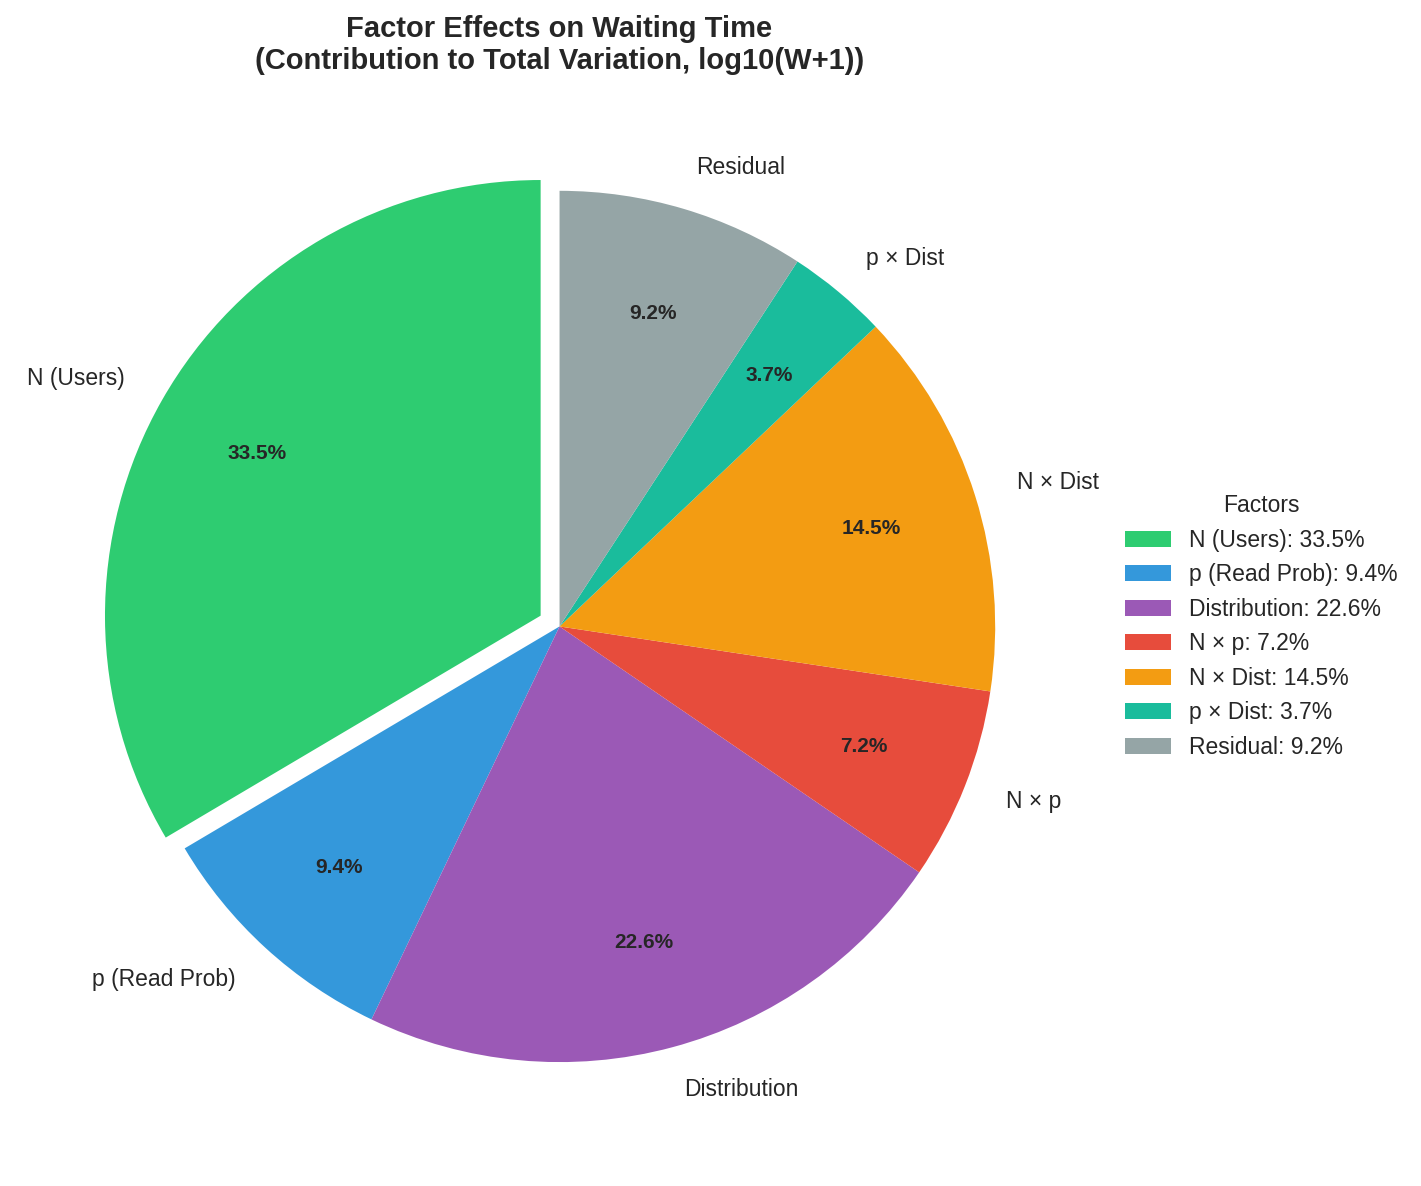
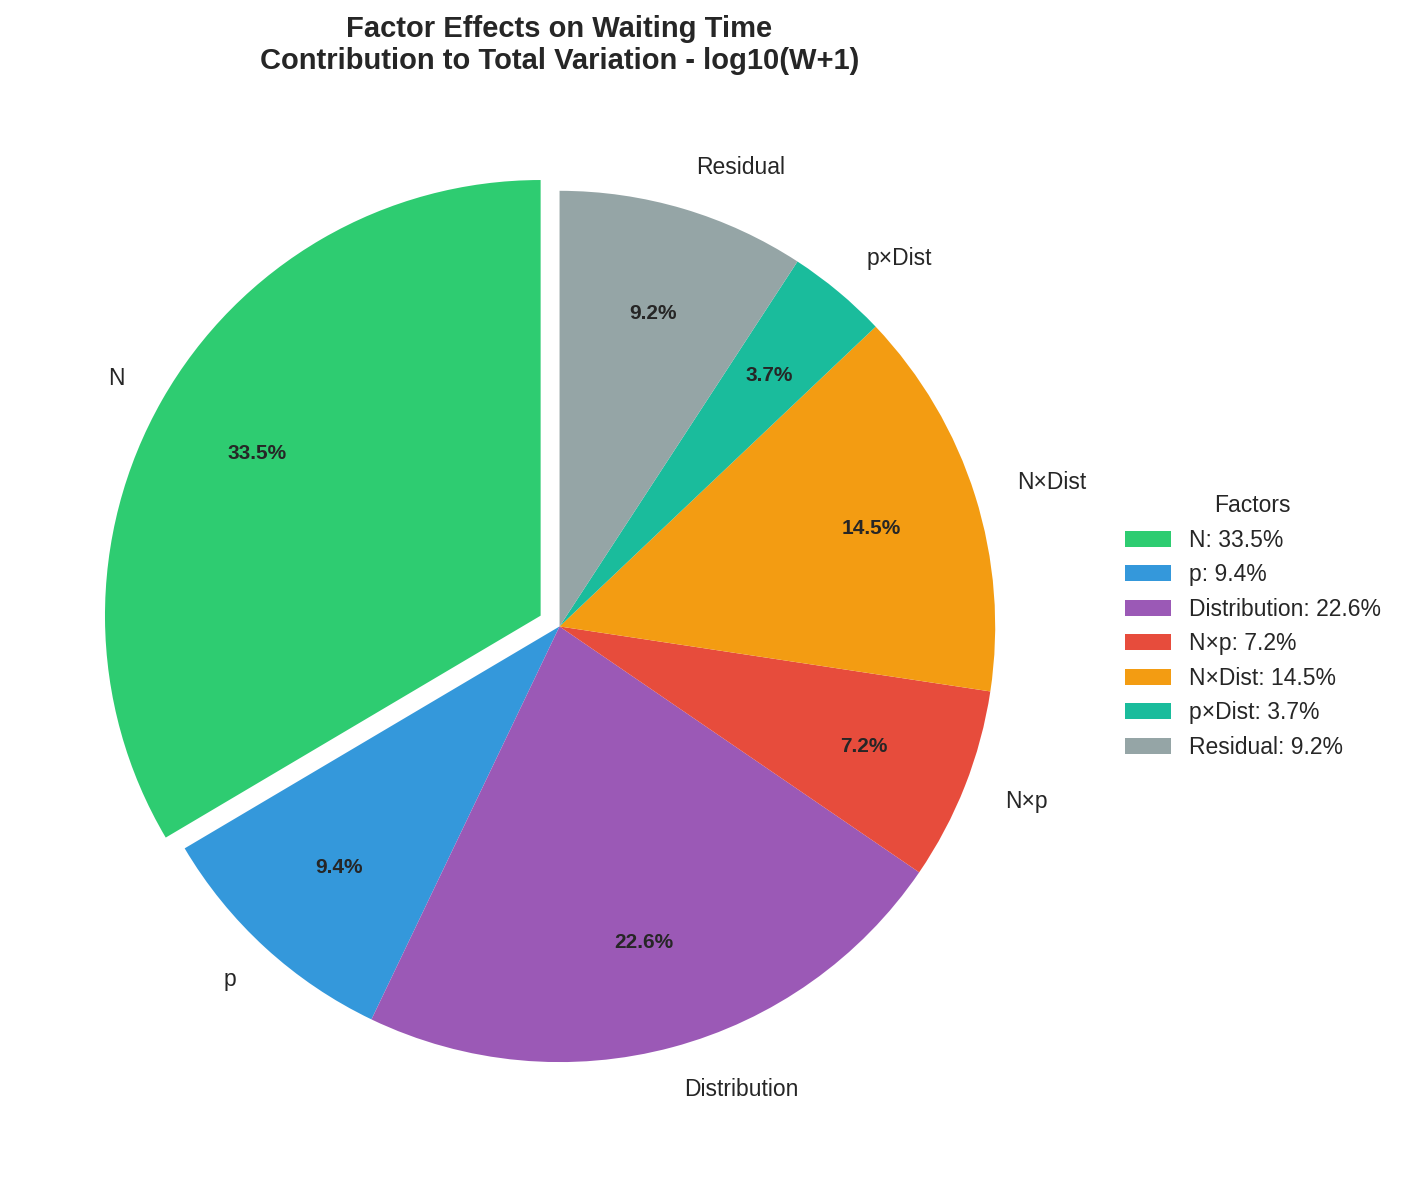
c

diff --git a/documentation/Chapter4.tex b/documentation/Chapter4.tex
@@ -68,9 +68,9 @@ This is coherent with the capacity results: hotspot traffic has a strong impact 
 $N$ & 33.51 \\
 $p$ & 9.39 \\
 Distribution & 22.56 \\
-$N \times p$ & 7.16 \\
-$N \times$ Distribution & 14.46 \\
-$p \times$ Distribution & 3.73 \\
+$N\times p$ & 7.16 \\
+$N\times \mathrm{Dist}$ & 14.46 \\
+$p\times \mathrm{Dist}$ & 3.73 \\
 Residual & 9.19 \\
 \hline
 \end{tabular}
@@ -80,7 +80,7 @@ Residual & 9.19 \\
 
 \noindent Important interpretation: the \textbf{main effect} of read probability is $9.39\%$, but the overall impact of read probability is larger if interactions are included:
 \[
-p + (N \times p) + (p \times \text{Distribution}) \approx 9.39 + 7.16 + 3.73 = 20.28\%.
+p + (N\times p) + (p\times \mathrm{Dist}) \approx 9.39 + 7.16 + 3.73 = 20.28\%.
 \]
 So read probability does not act ``in isolation''; it becomes much more influential when load and hotspot distribution change.
 
@@ -95,7 +95,7 @@ The analysis reveals that:
     
     \item \textbf{Distribution}: A strong standalone contribution (22.56\%). Uniform access keeps delay controlled, while Lognormal hotspots amplify contention.
 
-    \item \textbf{Interactions}: $N \times$ Distribution (14.46\%) and $N \times p$ (7.16\%) are substantial, meaning that the effect of one factor depends on the operating point of the others.
+    \item \textbf{Interactions}: $N\times \mathrm{Dist}$ (14.46\%) and $N\times p$ (7.16\%) are substantial, meaning that the effect of one factor depends on the operating point of the others.
 
     \item \textbf{Residual}: 9.19\% indicates remaining variability not explained by first-order terms only (e.g., stochastic effects near threshold conditions), which is expected in saturation regions.
 \end{itemize}
@@ -138,7 +138,7 @@ With perfect homoskedasticity, residual percentages should form a horizontal ban
 \label{fig:residuals_pred}
 \end{figure}
 
-In our case, a clear funnel shape is not evident. Residuals stay centered around zero, with limited widening only in the most stressed hotspot regimes. The trend between residual magnitude and predicted wait is weak (Spearman $\rho \approx 0.18$), so behavior is \textbf{approximately homoskedastic} with mild heteroskedasticity at the extremes.
+In our case, a clear funnel shape is not sharp, but residual spread increases with predicted waiting time in stressed regimes. The rank trend between residual magnitude and predicted wait is positive and significant (Spearman $\rho \approx 0.63$, $p \ll 0.001$), indicating \textbf{weak-to-moderate heteroskedasticity} concentrated in high-load/hotspot conditions.
 
 Implications:
 \begin{itemize}

diff --git a/documentation/chapter5.tex b/documentation/chapter5.tex
@@ -11,20 +11,4 @@ This project analyzed a concurrent database-access system under increasing load,
     \item \textbf{Warm-up configuration is adequate}: using a 500s warm-up avoids transient bias in collected statistics.
 \end{itemize}
 
-\section{Operational Takeaways}
-
-\begin{itemize}
-    \item For this setup ($M=20$, $\lambda=0.05$, $S=0.1$s), \textbf{Uniform + high read probability} is the most robust operating region.
-    \item \textbf{Average waiting time} is the most practical control metric for early detection of instability and stall.
-    \item In hotspot scenarios, scaling only the number of users is unsafe without additional load-balancing strategies.
-\end{itemize}
-
-\section{Future Improvements}
-
-\begin{itemize}
-    \item Introduce explicit \textbf{load-balancing/routing policies} to mitigate hotspot concentration.
-    \item Extend the model with \textbf{dynamic table scaling} and adaptive admission control.
-    \item Add targeted stress experiments around the stall boundary to refine capacity thresholds.
-\end{itemize}
-
 In summary, the system can sustain high concurrency in balanced traffic conditions, while hotspot-driven contention is the critical bottleneck that must be addressed in production-oriented designs.

diff --git a/documentation/generate_chapter4_plots.py b/documentation/generate_chapter4_plots.py
@@ -111,12 +111,12 @@ def compute_factor_effects_waiting_time(runs):
     ss_error = sum(np.sum((np.array(vals) - np.mean(vals)) ** 2) for vals in cells.values())
 
     effects = {
-        "N (Users)": ss_n,
-        "p (Read Prob)": ss_p,
+        "N": ss_n,
+        "p": ss_p,
         "Distribution": ss_d,
-        "N × p": ss_np,
-        "N × Dist": ss_nd,
-        "p × Dist": ss_pd,
+        "N×p": ss_np,
+        "N×Dist": ss_nd,
+        "p×Dist": ss_pd,
         "Residual": ss_npd + ss_error,
     }
 
@@ -185,7 +185,7 @@ def generate_factor_effects_pie(effects):
         autotext.set_fontweight("bold")
 
     ax.set_title(
-        "Factor Effects on Waiting Time\n(Contribution to Total Variation, log10(W+1))",
+        "Factor Effects on Waiting Time\nContribution to Total Variation - log10(W+1)",
         fontsize=14,
         fontweight="bold",
     )
